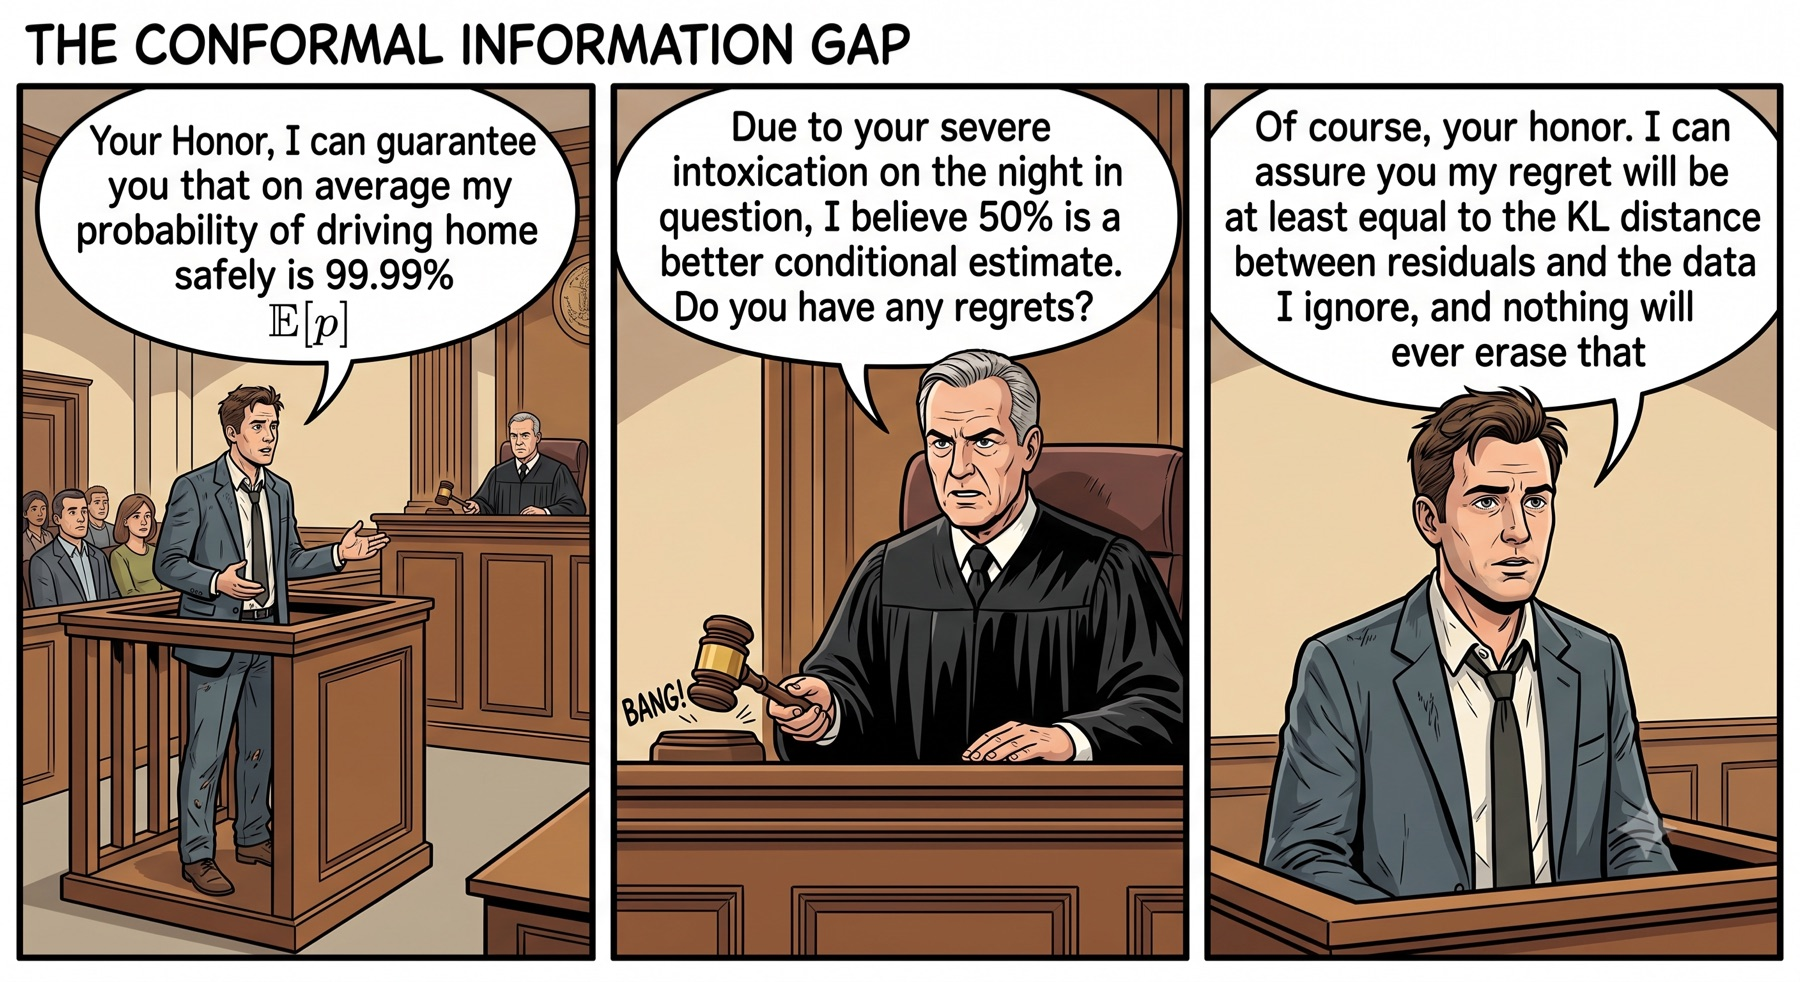
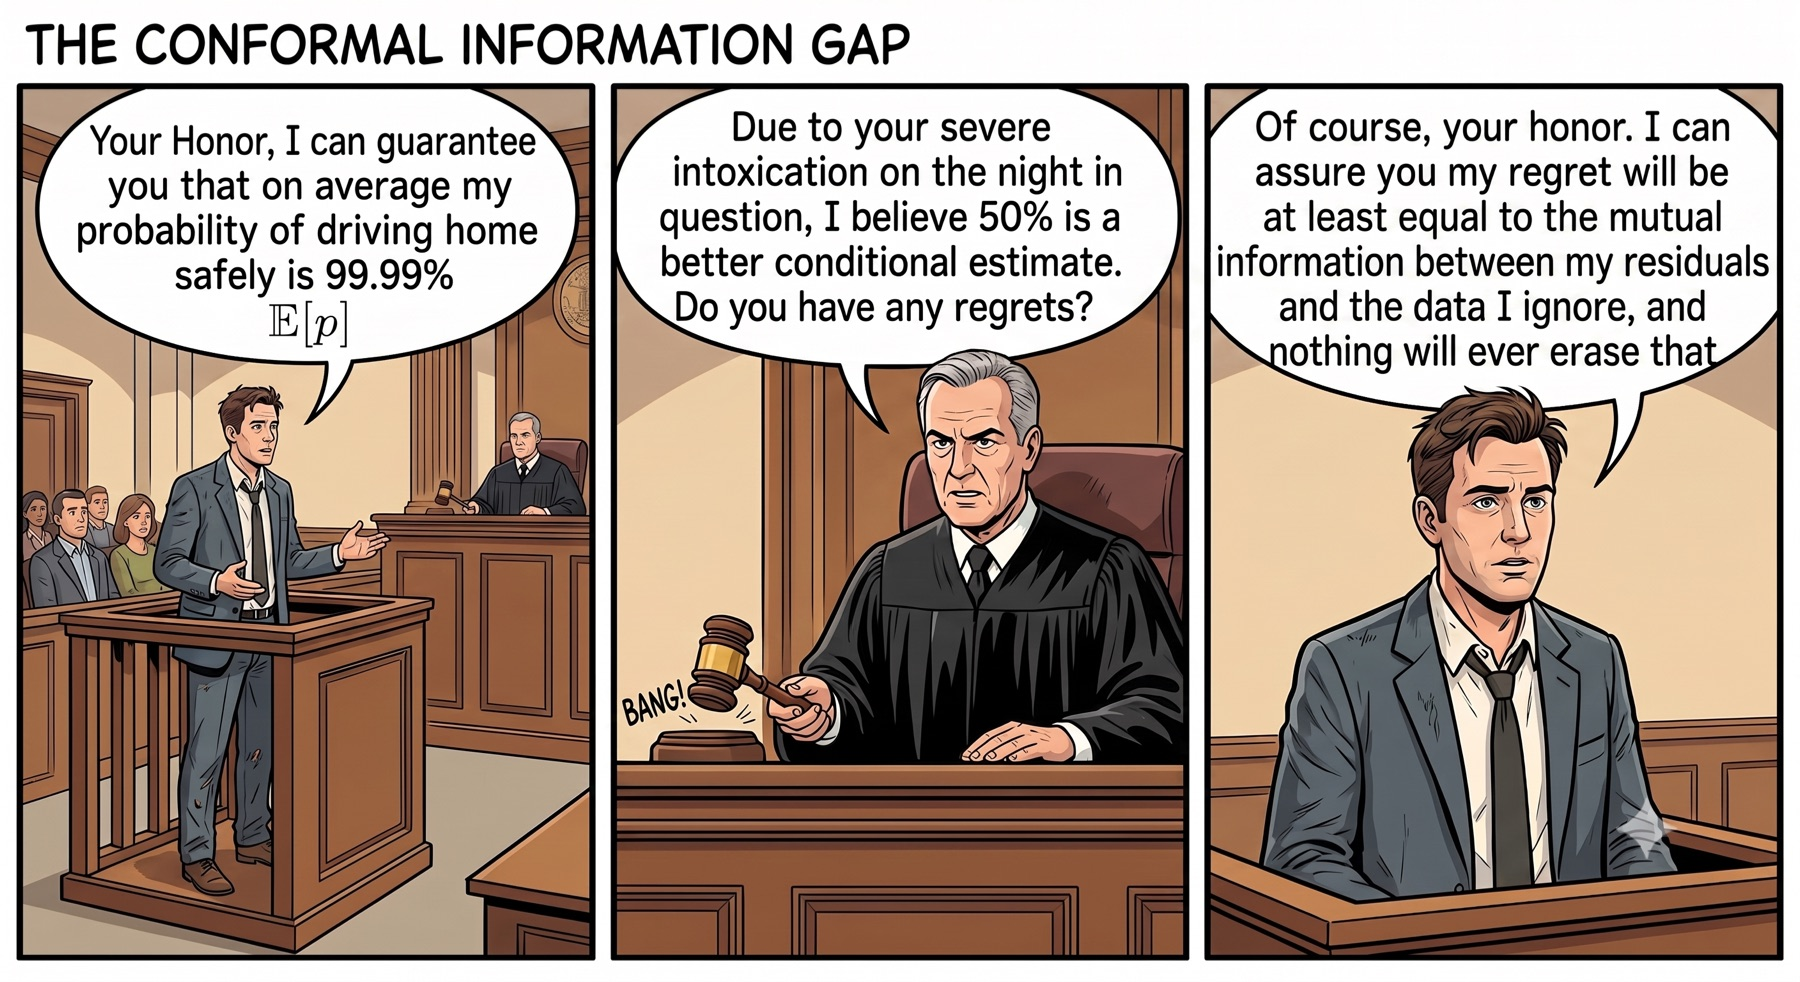
Corrected info-gap cartoon: mutual information in the third panel (#142)

diff --git a/index.html b/index.html
@@ -150,7 +150,7 @@
     <p style="margin-top:10px;">&ldquo;Information gap&rdquo; is not (yet) standard terminology. It is a rigorous observation, and the key one that helped the author understand the limitations of conformal prediction in a crisp manner, not to mention sort through the literature (see <a href="/map.html">the map</a>). The identity is proved in <a href="/papers/marginally-useful/">Marginally Useful</a>, and <a href="/demos/13-coverage-score-plane.html">the coverage&ndash;score plane</a> shows it as a height no conformal step can climb.</p>
   </details>
   <img src="/img/info-gap-cartoon.jpeg" style="max-width:100%;border-radius:8px;margin:6px 0 14px;"
-    alt="Cartoon titled The Conformal Information Gap. Panel one: a defendant on the stand tells the court, Your Honor, I can guarantee you that on average my probability of driving home safely is 99.99 percent, expectation of p. Panel two: the judge bangs the gavel and replies, Due to your severe intoxication on the night in question, I believe 50 percent is a better conditional estimate. Do you have any regrets? Panel three: the defendant answers, Of course, your honor. I can assure you my regret will be at least equal to the KL distance between residuals and the data I ignore, and nothing will ever erase that." />
+    alt="Cartoon titled The Conformal Information Gap. Panel one: a defendant on the stand tells the court, Your Honor, I can guarantee you that on average my probability of driving home safely is 99.99 percent, expectation of p. Panel two: the judge bangs the gavel and replies, Due to your severe intoxication on the night in question, I believe 50 percent is a better conditional estimate. Do you have any regrets? Panel three: the defendant answers, Of course, your honor. I can assure you my regret will be at least equal to the mutual information between my residuals and the data I ignore, and nothing will ever erase that." />
   <div class="cards">
     <a class="card" href="demos/13-coverage-score-plane.html">
       <h3>The coverage&ndash;score plane</h3>
